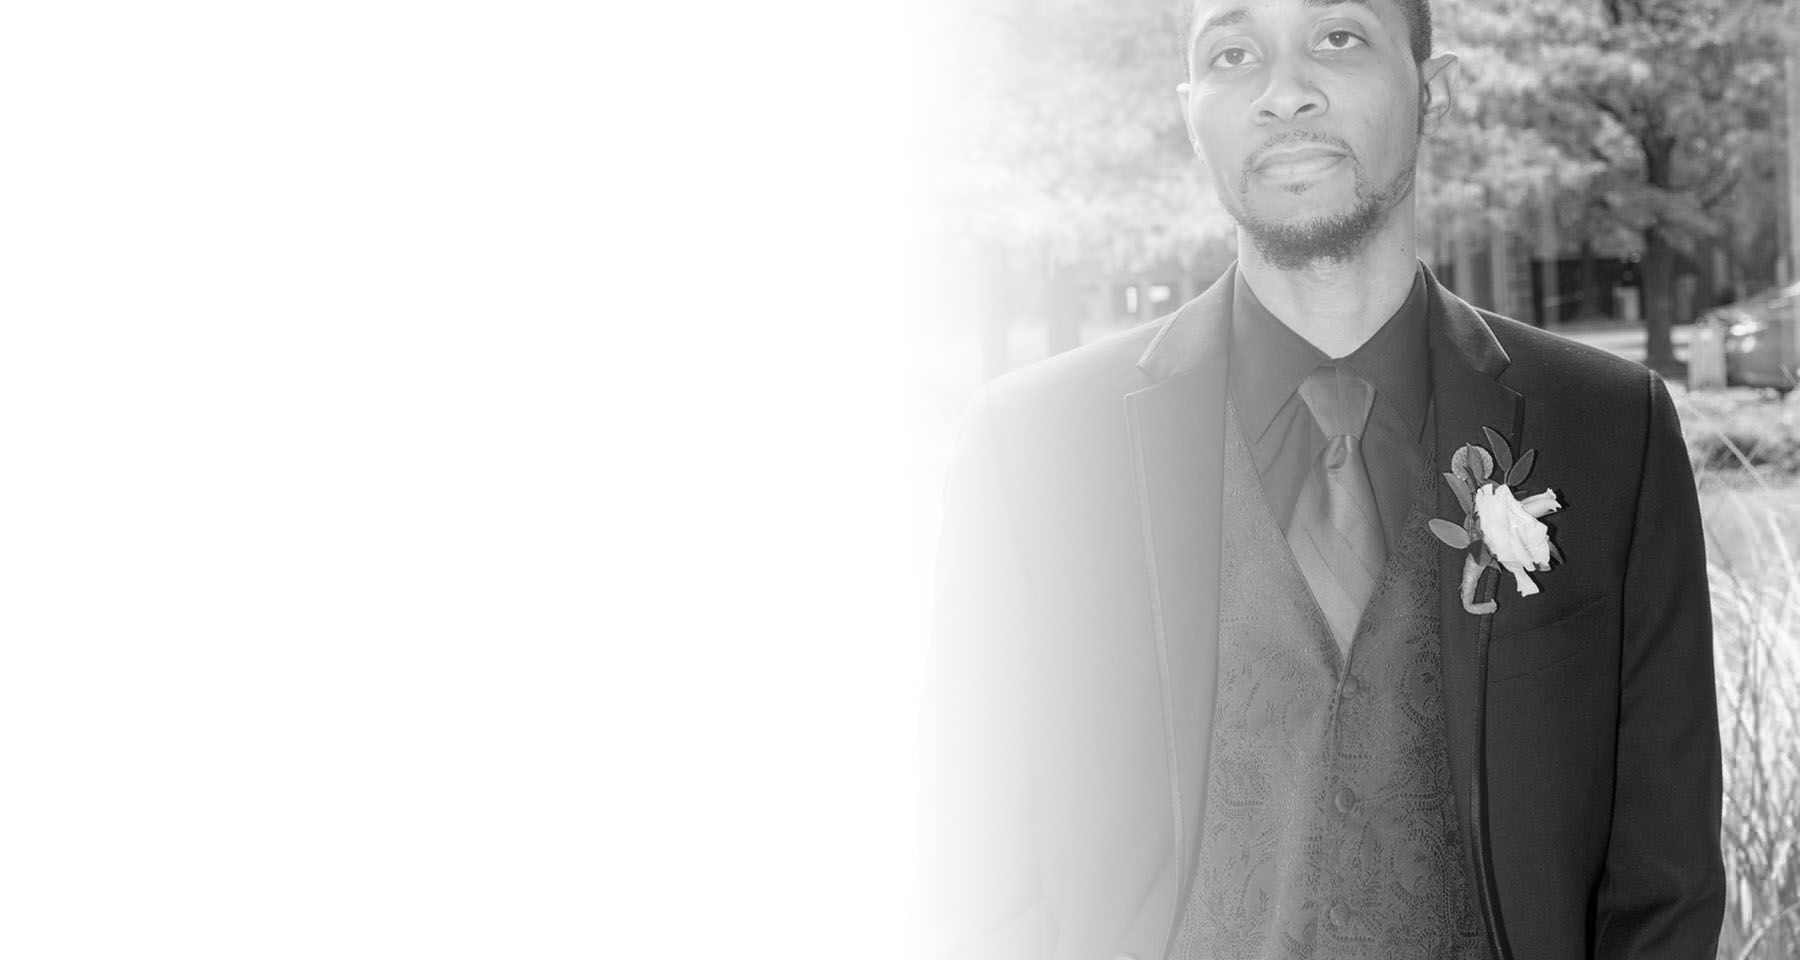
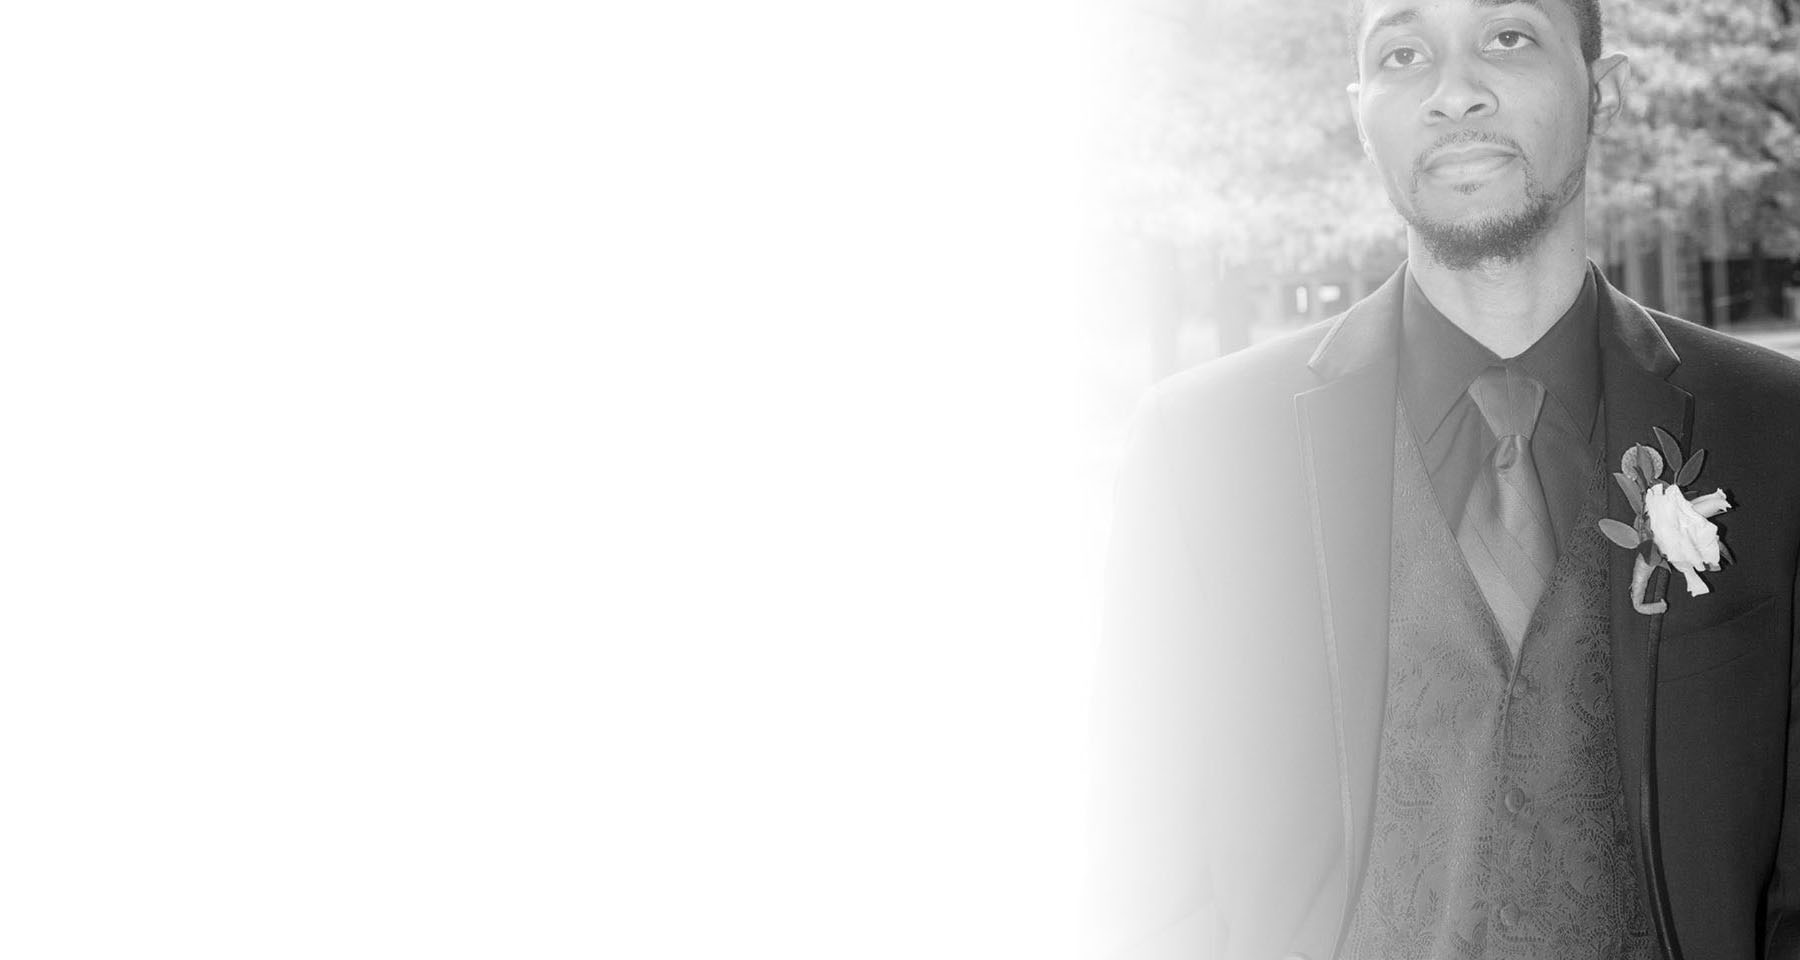
Homepage 100% Complete

diff --git a/css/style.css b/css/style.css
@@ -267,7 +267,7 @@ border-color: gold;
   position: absolute;
   background-color: #f9f9f9;
   min-width: 160px;
-  box-shadow: 0px 8px 16px 0px rgba(255,200,200,0.7);
+  box-shadow: 5px 8px 2px 2px rgba(255,200,200,0.7);
   font-weight: bold;
   overflow: auto;
   text-align: center;
@@ -383,15 +383,16 @@ border-color: gold;
   margin-top: 7px;
   width: 175px;
   float: left;
+  text-align: center;
 }
 
 .homepage-navbar button {
-  font-size: 16px;
+  font-size: 17px;
   font-family: serif;
   text-align: center;
   float: right;
   min-width: 100px;
-  padding-bottom: 4px;
+  padding-bottom: 2.3px;
   border: none;
   color: gold;
  }
@@ -418,19 +419,20 @@ border-color: gold;
 }
 
 .homepage-navbar ul > li > a {
-  padding: 10px 55px;
+  padding: 10px 60px;
   text-align: center;
+  background-color: black;
 }
 
 .homepage-navbar ul > li > a:hover {
   background-color: #ddd;
-  padding: 10px 55px;
+  padding: 10px 60px;
   /* margin-left: 15px; */
 }
 
 .homepage-navbar ul {
-  margin-left: 40px;
-  top: 56px;
+  margin-left: 30px;
+  top: 55.6px;
 }
 
 #lastitem {
@@ -438,21 +440,18 @@ border-color: gold;
 }
 
 /* Homepage style */
+
 #homepage {
-  /* max-width: 100%; */
+  max-width: 100%;
   margin: 0 auto;
 }
 
 .main-body {
   height: 800px;
   min-width: 1000px;
-  /* margin-right: -100px; */
-  /* background-repeat: no-repeat; */
   background-size: 100% 100%;
   background-image: url("/CTS.jpg");
-  /* background-position: center; */
   color: black;
-  /* background-color: green; */
   overflow: hidden;
   }
 
@@ -483,6 +482,7 @@ border-color: gold;
   font-size: 3em;
   text-align: center;
   font-weight: bold;
+  margin: 0 auto;
   margin-bottom: -30px;
 }
 
@@ -491,6 +491,7 @@ border-color: gold;
   background-color: #ECBA3E;
   padding: 2px;
   border: none;
+  margin: 0 auto;
   margin-bottom: 70px;
 }
 
@@ -547,7 +548,7 @@ overflow: hidden;
 
 .home-links {
   text-align: center;
-  margin-right: 50px;
+  margin: 0 auto;
   margin-bottom: 125px;
 }
 
@@ -729,7 +730,9 @@ overflow: hidden;
 
 .bottom {
     position: relative;
-    bottom: 0;
+    bottom: 0 auto;
+    padding-bottom: 1px;
+    padding-left: 10px;
     font-size: 0.75rem;
 }
 

diff --git a/index.html b/index.html
@@ -56,12 +56,11 @@
       <li><a href="http://www.github.com/houdini-q"><i class="fab fa-github fa-4x"></i></a></li>
       <li><a href="https://www.instagram.com/houdinithe2nd/"><i class="fab fa-instagram fa-4x"></i></a></li>
       <li><a class="contact-btn" href="mailto:mrmartin2016@yahoo.com"><i class="fa fa-envelope-square fa-4x"></i></a>
-      <li><a href="tel:423-394-5187"><i class="fa fa-phone-square fa-4x"></i></a></li>
+      <li><a id="lastlink" href="tel:423-394-5187"><i class="fa fa-phone-square fa-4x"></i></a></li>
     </ul>
   </div>
 <footer class="bottom">
-<!-- <hr> -->
-    <p>&copy 2018 | Quintez Martin</p>
+    <p>Copyright &copy 2017-2018 Quintez Martin | All Rights Reserved.</p>
 </footer>
 </div>
 <script type="text/javascript" src="landingpage.js"></script>
